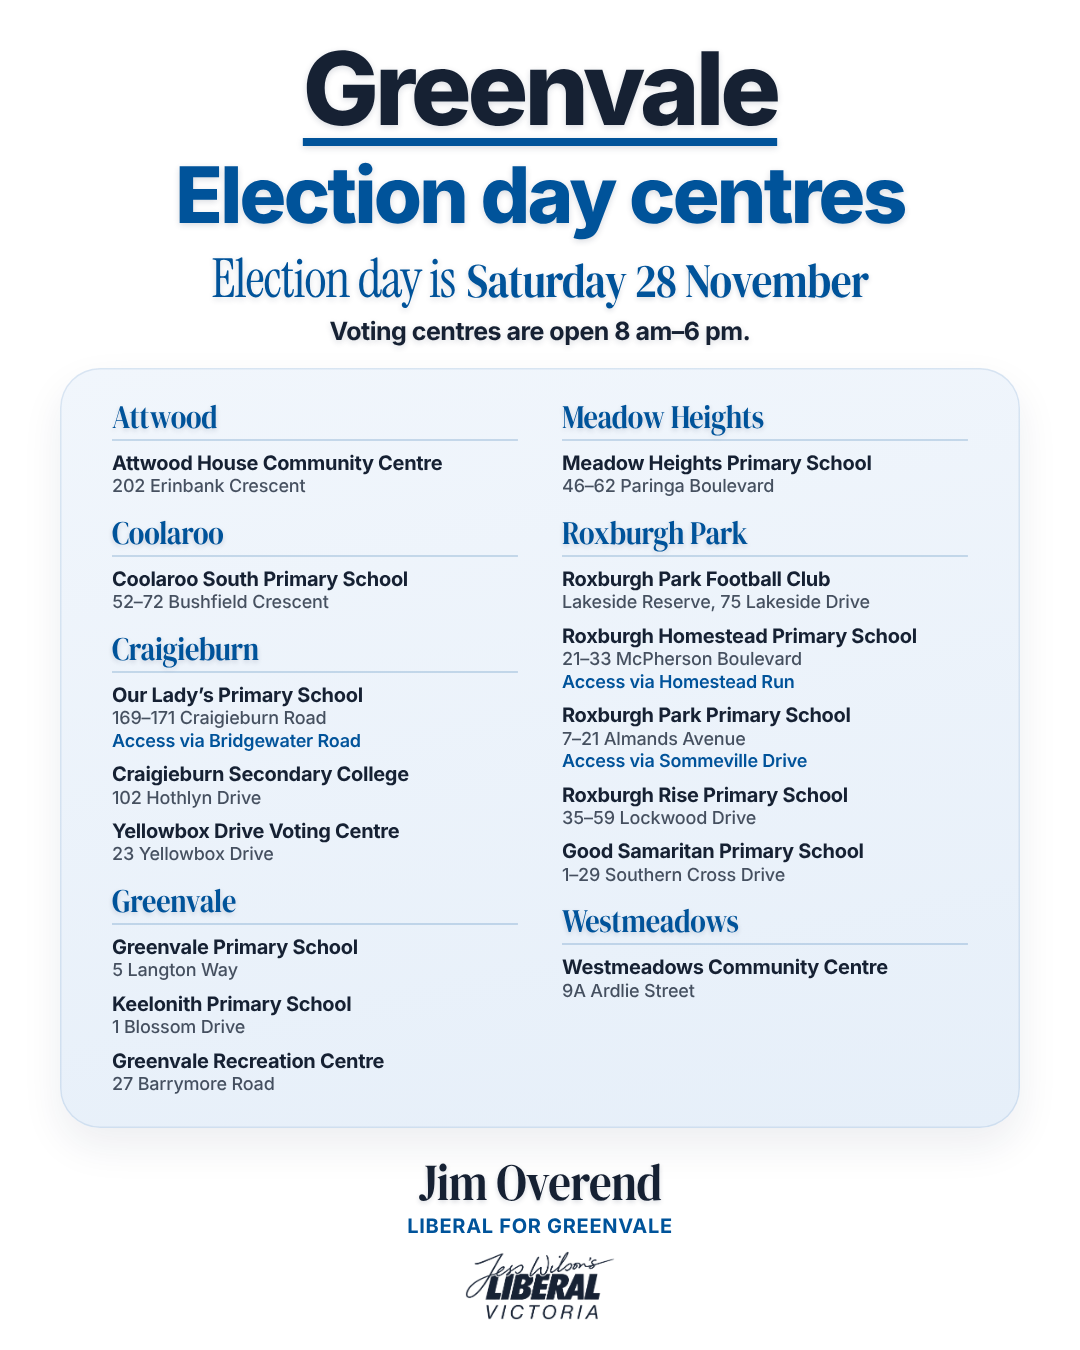
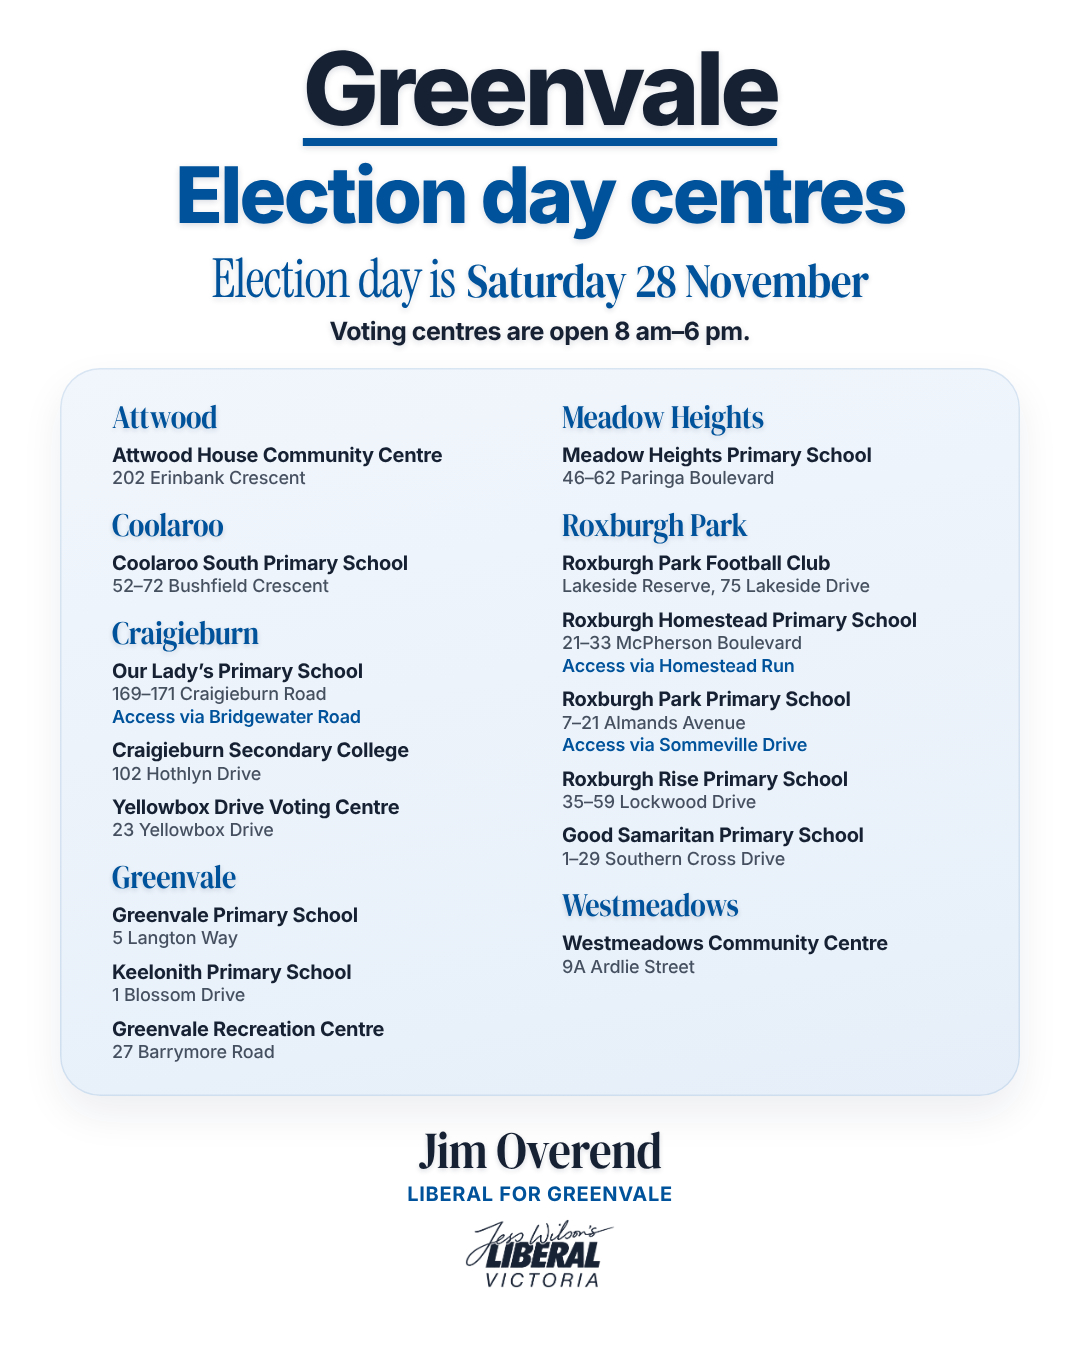
Election day card: remove rules under suburb headings
Claude-Session: https://claude.ai/code/session_01MT6wivusBEagFnhed7SAun

Changed region(s): [[0.0917, 0.3111, 0.4278, 0.8089], [0.5194, 0.3111, 0.8556, 0.7467], [0.3667, 0.84, 0.6111, 0.9956]]

diff --git a/designs/greenvale-election-day/source/election-day.html b/designs/greenvale-election-day/source/election-day.html
@@ -29,7 +29,7 @@ h1 .gv{display:inline-block;font-size:1.3em;letter-spacing:-.04em;margin-bottom:
 #cols{display:flex;gap:var(--colgap)}
 .col{flex:1;min-width:0;display:flex;flex-direction:column;gap:var(--groupgap)}
 .grp .sub{font-family:"Serif Bold";color:var(--blue);line-height:1;letter-spacing:-.01em;transform:scaleX(.86);transform-origin:0 50%;
-  white-space:nowrap;text-shadow:var(--shadow);padding-bottom:6px;margin-bottom:9px;border-bottom:2px solid rgba(0,83,154,.18);
+  white-space:nowrap;text-shadow:var(--shadow);margin-bottom:8px;
   width:calc(100%/.86)}
 .ent{margin-top:var(--entgap)}
 .ent:first-of-type{margin-top:0}
